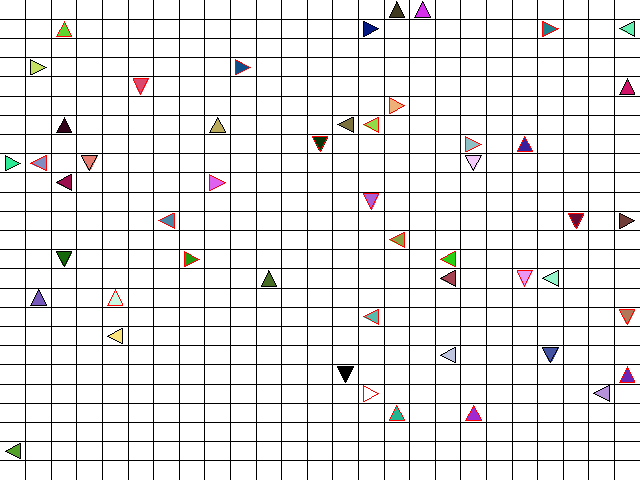
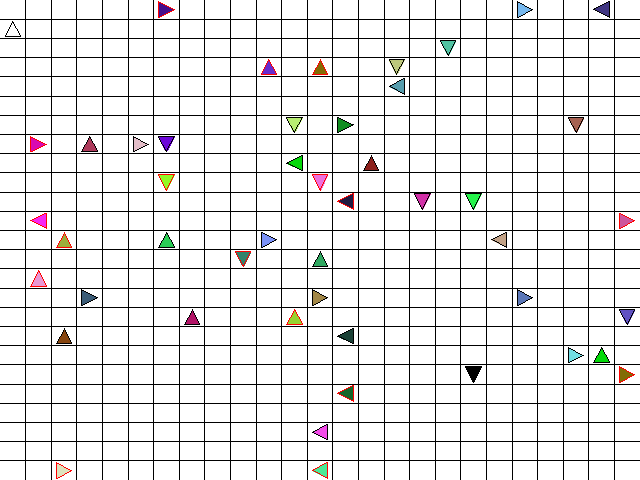
World simulation working with basic neural network

diff --git a/evolution.py b/evolution.py
@@ -1,40 +1,104 @@
 from models import World, Agent, Direction
 from view import View
 import random
+from keras.models import Sequential
+from keras.layers import Dense
+import numpy as np
 
 
 class Simulation:
     """Evolution simulation."""
 
-    def __init__(self):
+    def __init__(self, max_time=50, population_size=50, num_generations=50, world_size=(25,25)):
+        self.max_time = max_time
+        self.num_generations = num_generations
         # Initialize world
-        self.world = World(25, 25)
-        self.num_agents = 50
-        self.initialize_agents()
+        world_width, world_height = world_size
+        self.world = World(world_width, world_height)
+        self.num_agents = population_size
+        self.world.agents = self.initialize_agents(self.world)
         # Initialize view
         self.view = View(self.world)
 
-    def initialize_agents(self):
+    def initialize_agents(self, world):
         """Add agents to [self.world]."""
         # Precondition: [self.world] and [self.num_agents] must be defined
+        agents = {}
         for i in range(self.num_agents):
             agent = Agent(i)
             agent.move = bool(random.getrandbits(1))
             agent.direction = Direction(random.randrange(4))
-            x = random.randrange(self.world.width)
-            y = random.randrange(self.world.height)
+            agent.model = self.initialize_agent_nn()
+            x = random.randrange(world.width)
+            y = random.randrange(world.height)
             while (x, y) in self.world.agents:
-                x = random.randrange(self.world.width)
-                y = random.randrange(self.world.height)
-            self.world.agents[(x, y)] = agent
+                x = random.randrange(world.width)
+                y = random.randrange(world.height)
+            agents[(x, y)] = agent
+        return agents
 
-    def initialize_agent(self):
-        """Return initialized agent for the world."""
-        pass
+    def initialize_agent_nn(self):
+        """Return neural network for agent."""
+        input_vars = 7
+        layer_num_neurons = 7
+        output_vars = 3
+        model = Sequential()
+        # Input - Layer
+        model.add(Dense(layer_num_neurons, input_shape=(input_vars,), activation='relu', kernel_initializer='uniform'))
+        # Hidden - Layers
+        model.add(Dense(layer_num_neurons, activation='sigmoid', kernel_initializer='uniform'))
+        model.add(Dense(layer_num_neurons, activation='sigmoid', kernel_initializer='uniform'))
+        # Output - Layer
+        model.add(Dense(output_vars, activation='sigmoid'))
+        return model
 
-    def update(self):
-        self.world.update()
+    def run(self, draw=True):
+        draw_path = 'out/world'
+        draw_ext = '.png'
         self.view.draw(self.world)
+        self.view.save(draw_path+'0'+draw_ext)
+        for t in range(1, self.max_time):
+            self.update(draw=draw)
+            if draw:
+                self.view.save(draw_path+str(t)+draw_ext)
+
+    def update(self, draw=True):
+        for loc in self.world.agents:
+            self.update_agent(self.world.agents[loc])
+        self.world.update()
+        if draw:
+            self.view.draw(self.world)
+
+    def update_agent(self, agent):
+        """Run agent neural network (model) and update its state."""
+        # Create input
+        x = self.build_nn_input(agent)
+        # Run input on agent model
+        predict_y = agent.model.predict(np.array([x]))
+        predict_y_int = np.rint(predict_y[0]).astype(int)
+        # Parse output & update agent
+        output = self.parse_nn_output(predict_y_int)
+        agent.direction = output['direction']
+        agent.move = output['move']
+
+    def build_nn_input(self, agent):
+        """Return input numpy array for agent model."""
+        # [0:2] Direction
+        direction = [int(i) for i in '{0:02b}'.format(agent.direction.value)]
+        # [2:3] Moved
+        moved = [int(agent.moved)]
+        # [3:7] Proximity Sensors
+        proximity = [int(i) for i in agent.proximity]
+        return np.concatenate([direction, moved, proximity])
+
+    def parse_nn_output(self, y):
+        """Return dictionary decoding numpy array of nn output."""
+        output = {}
+        # [0:2] Direction
+        output['direction'] = Direction(int(''.join(str(i) for i in y[0:2]), 2))
+        # [2:3] Move
+        output['move'] = bool(y[2])
+        return output
 
     def __str__(self):
         return str(self.world)
@@ -42,10 +106,7 @@ class Simulation:
 
 def main():
     simulation = Simulation()
-    simulation.view.draw(simulation.world)
-    simulation.view.save('out/world0.png')
-    simulation.update()
-    simulation.view.save('out/world1.png')
+    simulation.run()
 
 if __name__ == '__main__':
     main()

diff --git a/models.py b/models.py
@@ -133,6 +133,9 @@ class Agent:
         self.moved = False
         self.proximity = [False]*4
         # communication (sequence of bits)
+
+    def nn_input(self):
+        'Return input for neural network dependend on agent state.'
         pass
 
     def __str__(self):
